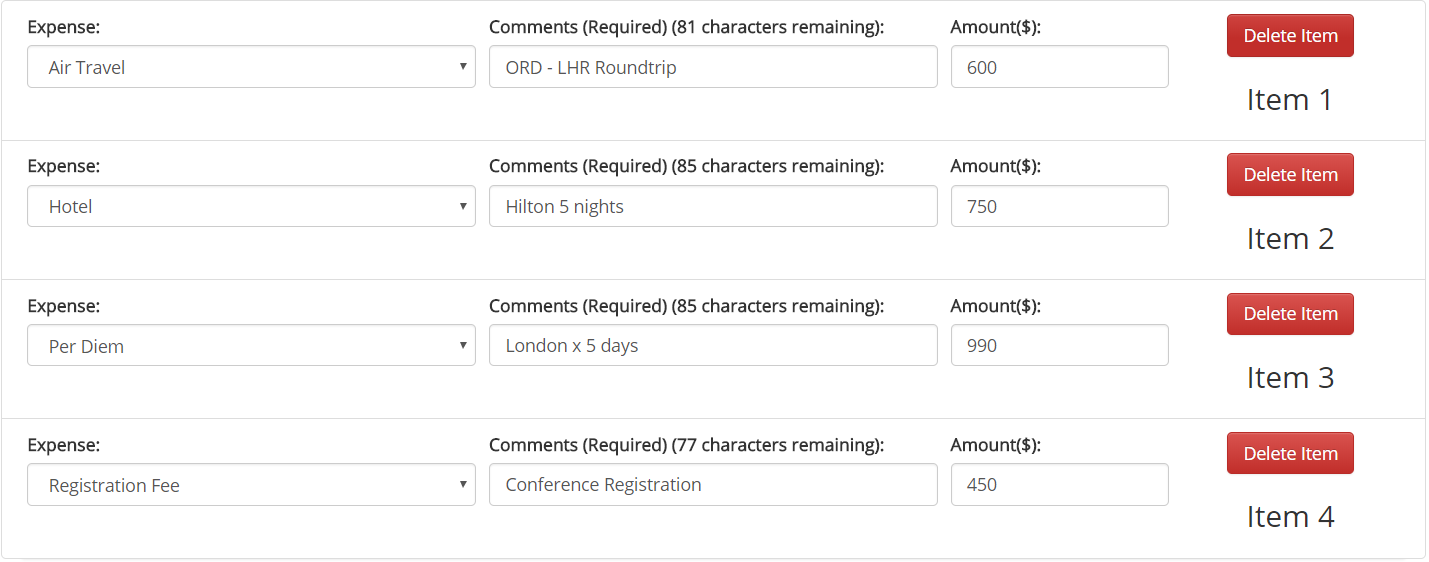
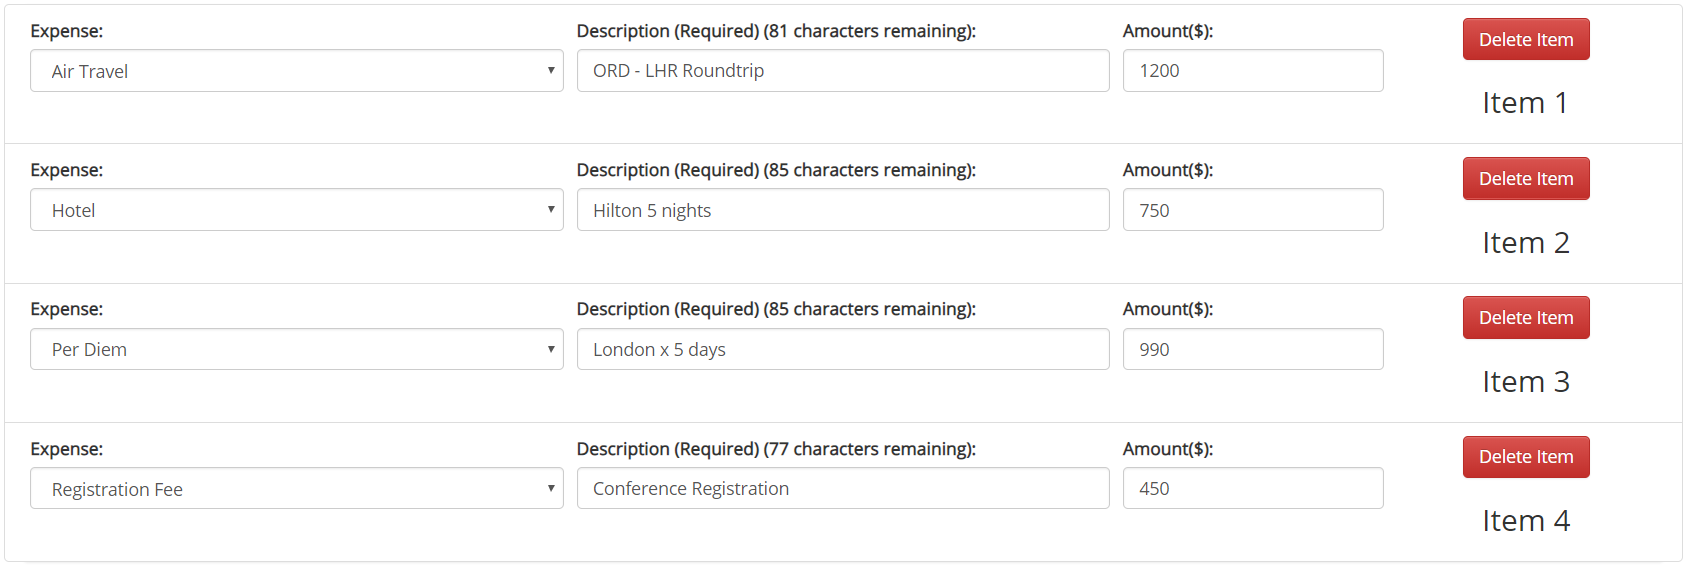
Fixed minor issues
Changed example budget air travel expense to $1200
Fixed budget error messages not showing up after deletion
Changed budget 'details' to 'description'
Moved dept. chair warning message to a text box above the signature field, and replaced it with a simpler 'are you sure you want to approve this application' message
Removed the 'deny' button from the final report
Added contact details to all email messages, and modified dept. chair email message slightly to reflect that

diff --git a/client/final_report/final_report.js b/client/final_report/final_report.js
@@ -42,7 +42,6 @@ higeApp.controller('reportCtrl', ['$scope', '$http', '$sce', '$filter', function
     $scope.submit = function(){
         if($scope.submitFunction === 'insertReport'){$scope.insertReport();}
         else if($scope.submitFunction === 'approveReport'){$scope.approveReport('Approved');}
-        else if($scope.submitFunction === 'denyReport'){$scope.approveReport('Denied');}
         else if($scope.submitFunction === 'holdReport'){$scope.approveReport('Hold');}
         else if($scope.submitFunction === 'uploadFiles'){$scope.uploadFiles();}
     }
@@ -252,7 +251,7 @@ higeApp.controller('reportCtrl', ['$scope', '$http', '$sce', '$filter', function
     };
 
 
-    //approve or deny report with the status parameter
+    //approve or hold report with the status parameter
     $scope.approveReport = function(status){
 
         if(confirm ("By confirming, your email will be sent to the applicant! Are you sure you want to set this report's status to " + status + "?"))

diff --git a/client/application/application.js b/client/application/application.js
@@ -77,8 +77,7 @@ higeApp.controller('appCtrl', ['$scope', '$http', '$sce', '$filter', function($s
         if($scope.formData.budgetItems.length > 1)
         {
             $scope.formData.budgetItems.splice(index, 1);
-        }
-           
+        }  
     }
     //Get total budget cost
     $scope.getTotal = function(){
@@ -431,7 +430,7 @@ higeApp.controller('appCtrl', ['$scope', '$http', '$sce', '$filter', function($s
     //let the department chair approve this application
     $scope.chairApproval = function(){
 
-        if(confirm ('By approving this application, you affirm that this applicant holds a board-appointed faculty rank and is a member of the bargaining unit.'))
+        if(confirm ('Are you sure you want to approve this application?'))
         {
             //start a loading alert
             $scope.loadingAlert();

diff --git a/client/application/application.php b/client/application/application.php
@@ -460,7 +460,7 @@
 					<div id="exampleBudgetHolder">
 						<button type="button" id="budgetExampleButton" data-toggle="collapse" class="btn btn-info" data-target="#budgetExample">Click here for an example of how to construct a budget!</button>
 						<div id="budgetExample" class="collapse">
-							<img src="../images/BudgetExample.PNG" alt="Here is an example budget item: Expense: Registration Fee, Details: Conference Registration, Amount($): 450" class="exampleBudget" />
+							<img src="../images/BudgetExample.PNG" alt="Here is an example budget item: Expense: Registration Fee, Description: Conference Registration, Amount($): 450" class="exampleBudget" />
 						</div>
 					</div>
 					
@@ -474,19 +474,19 @@
 										<select class="form-control" ng-model="budgetItem.expense" ng-disabled="appFieldsDisabled" name="budgetExpense{{$index+1}}" id="budgetExpense{{$index+1}}" value="{{budgetItem.expense}}" >
 											<option ng-repeat="o in options" value="{{o.name}}">{{o.name}}</option>
 										</select>
-										<span class="help-block"  ng-show="errors['budgetArray {{$index+1}} expense']" aria-live="polite">{{errors['budgetArray '+($index+1)+' expense']}}</span>
+										<span class="help-block"  ng-if="errors['budgetArray '+($index+1)+' expense']" aria-live="polite">{{errors['budgetArray '+($index+1)+' expense']}}</span>
 									</div>
 								<!--BUDGET:DETAILS-->
 									<div class="form-group col-md-4">
-										<label for="budgetDetails{{$index+1}}">Details{{isCreating || isAdminUpdating ? " (Required) ("+(maxBudgetDetails-budgetItem.details.length)+" characters remaining)" : ""}}:</label>
+										<label for="budgetDetails{{$index+1}}">Description{{isCreating || isAdminUpdating ? " (Required) ("+(maxBudgetDetails-budgetItem.details.length)+" characters remaining)" : ""}}:</label>
 										<input type="text" class="form-control" ng-model="budgetItem.details" ng-disabled="appFieldsDisabled" maxlength="{{maxBudgetDetails}}" name="budgetDetails{{$index+1}}" id="budgetDetails{{$index+1}}" placeholder="Explain..." />
-										<span class="help-block"  ng-show="errors['budgetArray {{$index+1}} details']" aria-live="polite">{{errors['budgetArray '+($index+1)+' details']}}</span>
+										<span class="help-block"  ng-if="errors['budgetArray '+($index+1)+' details']" aria-live="polite">{{errors['budgetArray '+($index+1)+' details']}}</span>
 									</div>
 								<!--BUDGET:AMOUNT-->
 									<div class="form-group col-md-2">
 										<label for="budgetAmount{{$index+1}}">Amount($):</label>
 										<input type="text" class="form-control" ng-model="budgetItem.amount" ng-disabled="appFieldsDisabled" name="budgetAmount{{$index+1}}" id="budgetAmount{{$index+1}}" onkeypress='return (event.which >= 48 && event.which <= 57) || event.which == 8 || event.which == 46' />
-										<span class="help-block"  ng-show="errors['budgetArray {{$index+1}} amount']" aria-live="polite">{{errors['budgetArray '+($index+1)+' amount']}}</span>
+										<span class="help-block"  ng-if="errors['budgetArray '+($index+1)+' amount']" aria-live="polite">{{errors['budgetArray '+($index+1)+' amount']}}</span>
 									</div>
 								<!--REMOVE BUTTON-->
 									<div class="form-group col-md-2">
@@ -583,6 +583,7 @@
 						<div class="col-md-3"></div>
 						<div class="col-md-6">
 							<h3 class="title">Note: Applications received without the approval of the chair will not be considered.</h3>
+							<h3 class="title" ng-show="isChair">By approving this application, you affirm that this applicant holds a board-appointed faculty rank and is a member of the bargaining unit.</h3>
 							<div class="form-group">
 								<label for="deptChairApproval">{{isChair ? "Your Approval ("+(maxDeptChairApproval-formData.deptChairApproval.length)+" characters remaining):" : "Department Chair Approval:"}}</label>
 								<input type="text" class="form-control" maxlength="{{maxDeptChairApproval}}" ng-model="formData.deptChairApproval" ng-disabled="{{!isChair ? true : false}}" id="deptChairApproval" name="deptChairApproval" placeholder="{{isChair ? 'Type Your Full Name Here' : 'Department Chair Must Type Name Here'}}" />

diff --git a/client/final_report/final_report.php b/client/final_report/final_report.php
@@ -349,7 +349,6 @@
 						<button ng-show="isCreating" type="submit" ng-click="submitFunction='insertReport'" class="btn btn-success">SUBMIT FINAL REPORT</button> <!-- For applicant submitting for first time -->
 						<button ng-show="isFinalReportApprover || isAdmin" type="submit" ng-click="submitFunction='approveReport'" class="btn btn-success">APPROVE REPORT</button> <!-- For approver or admin approving -->
 						<button ng-show="isFinalReportApprover || isAdmin" type="submit" ng-click="submitFunction='holdReport'" class="btn btn-primary">HOLD REPORT</button> <!-- For approver or admin holding -->
-						<button ng-show="isFinalReportApprover || isAdmin" type="submit" ng-click="submitFunction='denyReport'" class="btn btn-danger">DENY REPORT</button> <!-- For approver or admin denying -->
 						<button ng-show="isReviewing" type="submit" ng-click="submitFunction='uploadFiles'" class="btn btn-success">UPLOAD DOCS</button> <!-- For applicant reviewing report -->
 						<a href="" class="btn btn-info" ng-click="redirectToHomepage(null, null)">LEAVE PAGE</a> <!-- For anyone to leave the page -->
 					</div>

diff --git a/functions/customEmail.php b/functions/customEmail.php
@@ -36,7 +36,7 @@
 		$footer = "
 		
 		<strong>Please do not reply to this email, this account is not being monitored.
-		If you need more information, please contact the IEFDF administrator directly.</strong>";
+		If you need more information, please contact the IEFDF administrator (michelle.metro-roland@wmich.edu or 7-3908).</strong>";
 
 		$fullMessage = $customMessage . $footer; //combine everything
 
@@ -104,8 +104,6 @@
 			5. At the bottom of the page, type your name in the signature field
 
 			6. Submit
-
-			If you have questions please contact Dr. Michelle Metro-Roland (michelle.metro-roland@wmich.edu or 7-3908).
 			
 			Best Regards, Dr. Michelle Metro-Roland";
 		$body = str_replace("#name", nl2br($applicantName), $body); //insert the applicant's name into the message

diff --git a/functions/database.php b/functions/database.php
@@ -1298,25 +1298,6 @@
 			}
 		}
 	}
-	
-	/*Update a Final Report to be denied*/
-	if(!function_exists('denyFinalReport')){
-		function denyFinalReport($conn, $id)
-		{
-			if ($id != "") //valid application id
-			{
-				/*Update any application with the given id*/
-				$sql = $conn->prepare("UPDATE final_reports SET Status = 'Denied' WHERE ApplicationID = :id");
-				$sql->bindParam(':id', $id);
-				$sql->execute();
-				
-				$ret = $sql->rowCount() ? true : false; //will be true if the row was updated to a new amount
-				/* Close finished query and connection */
-				$sql = null;
-				return $ret;
-			}
-		}
-	}
 
 	/*Update a Final Report to be on hold*/
 	if(!function_exists('holdFinalReport')){

diff --git a/client/ajax/approve_final_report.php b/client/ajax/approve_final_report.php
@@ -33,7 +33,6 @@ if(isset($_POST["appID"]) && isset($_POST["status"]) && isset($_POST["emailAddre
 			try
 			{
 				if($status === 'Approved') { $approvalReturn["success"] = approveFinalReport($conn, $appID); }
-				else if($status === 'Denied') { $approvalReturn["success"] = denyFinalReport($conn, $appID); }
 				else if($status === 'Hold') { $approvalReturn["success"] = holdFinalReport($conn, $appID); }
 				else { $approvalReturn["error"] = "Invalid status given"; }
 
